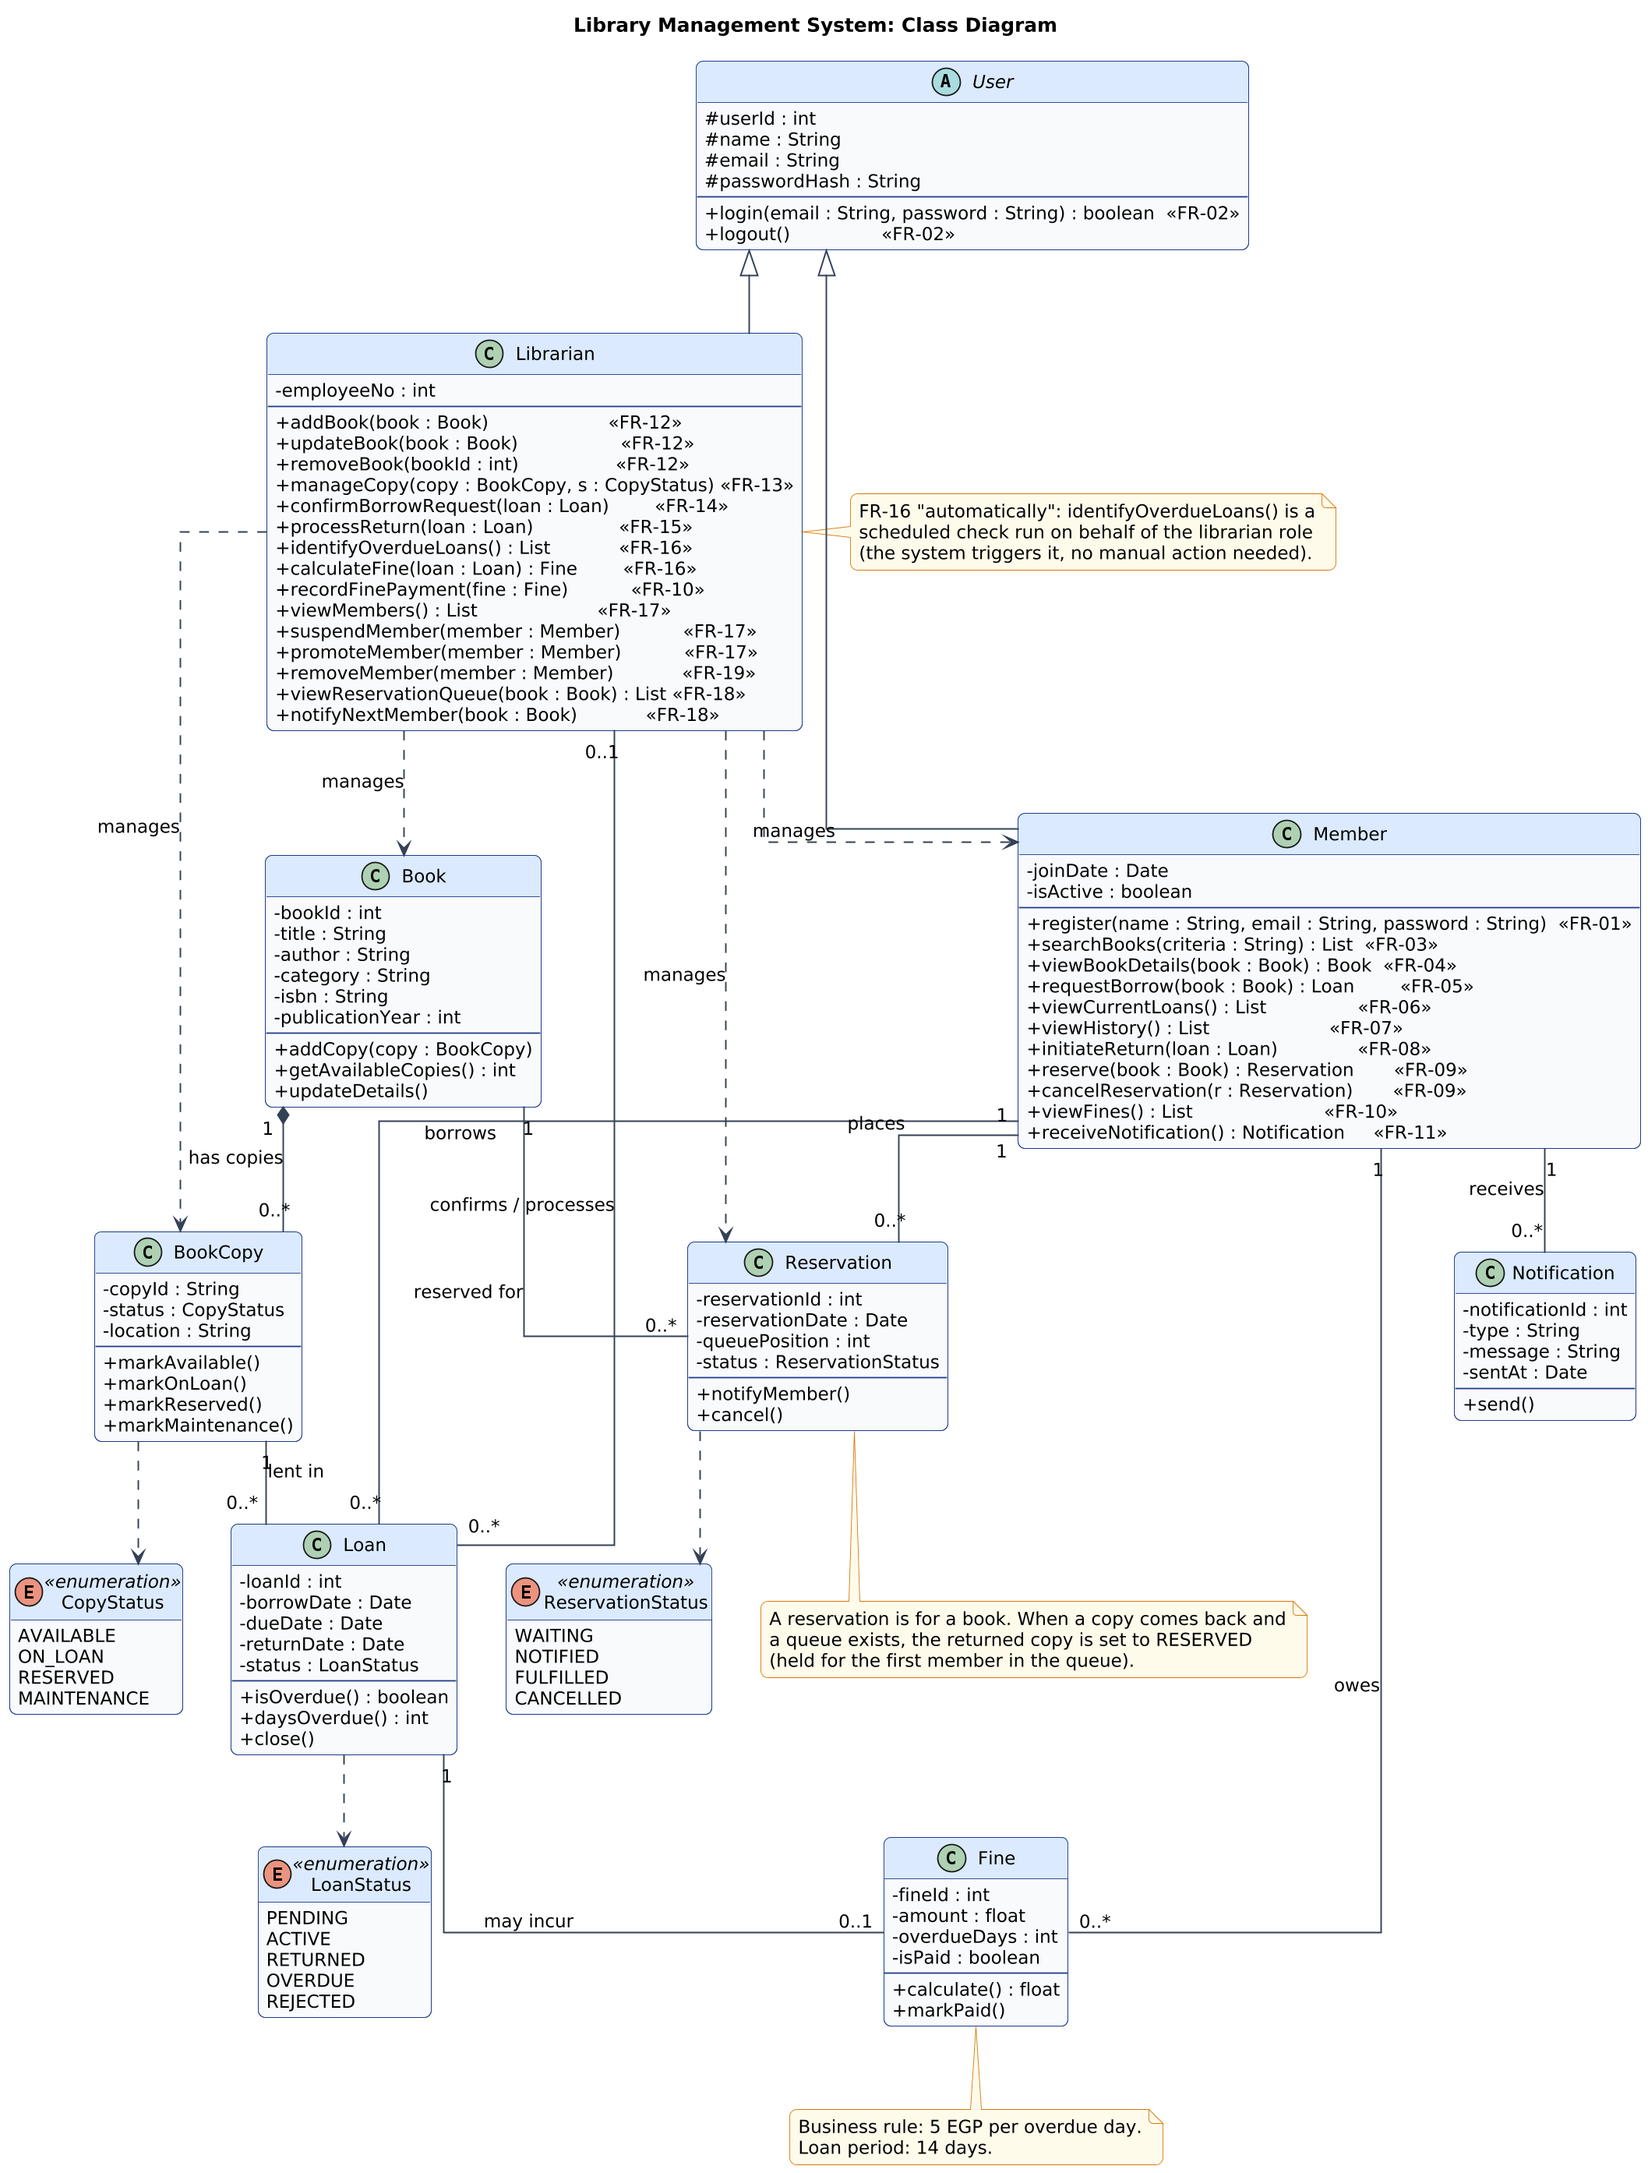
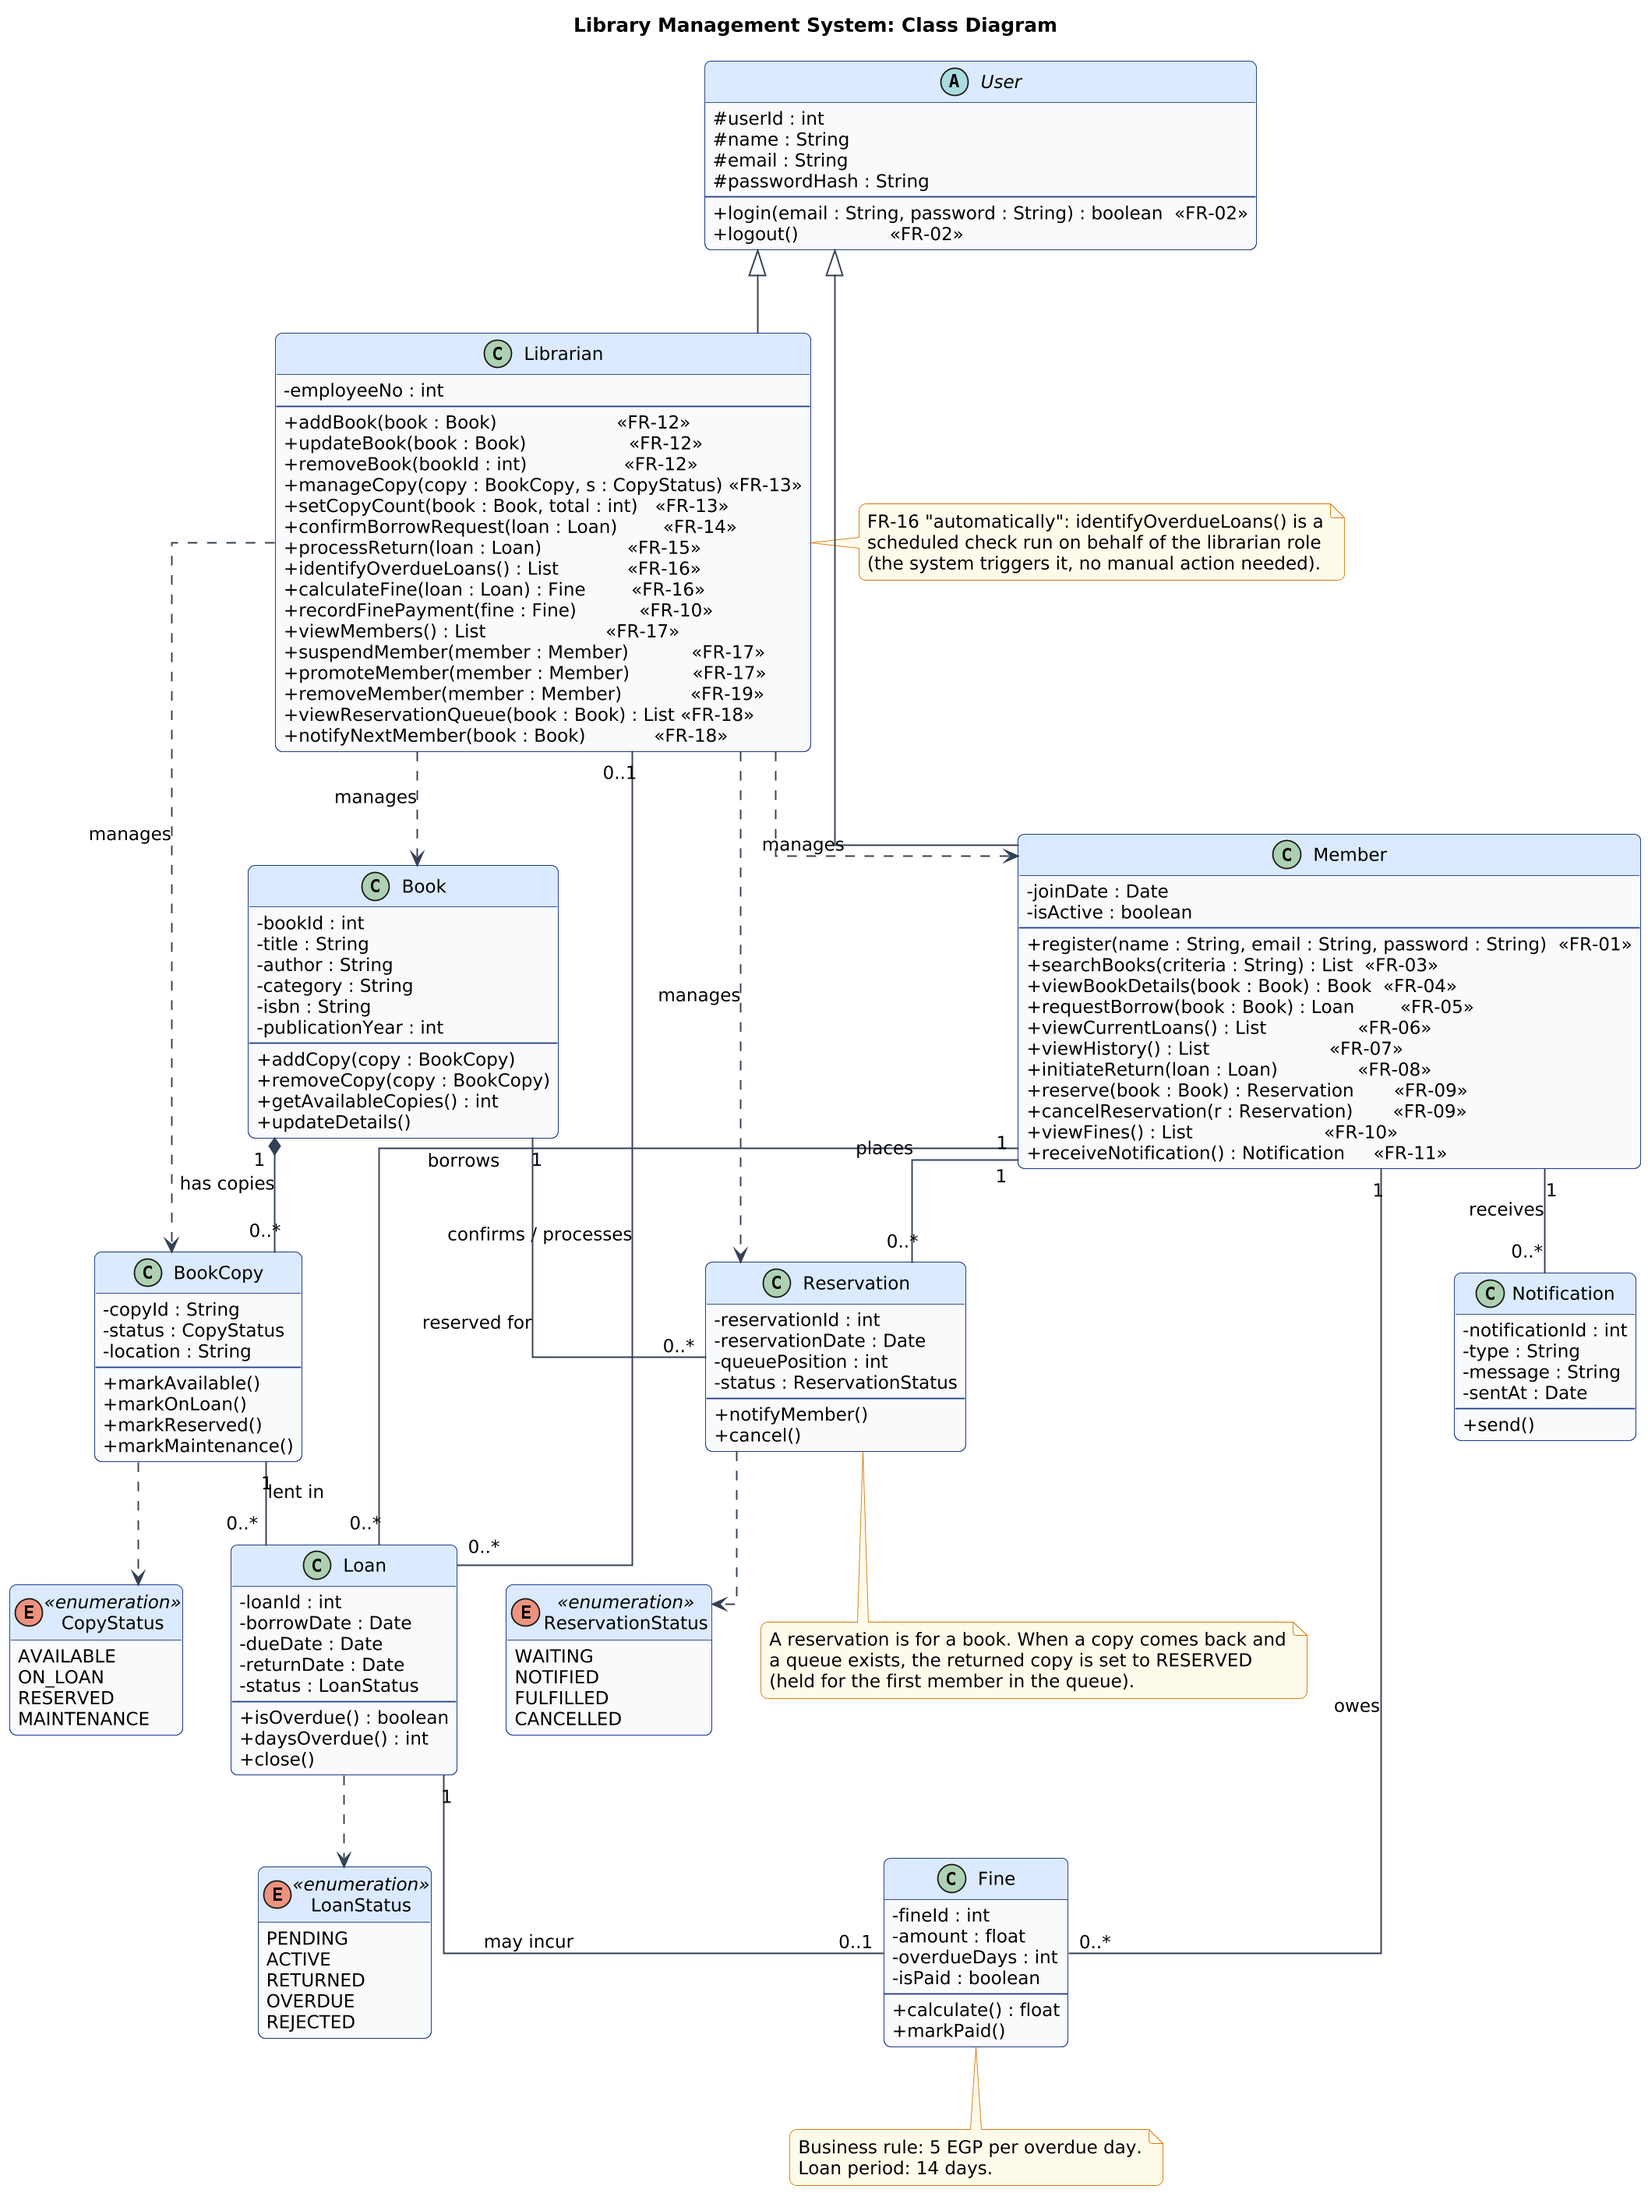
Spec: ISBN in FR-03/UC3, copy add/remove in FR-13/UC13, class removeCopy and setCopyCount

diff --git a/requirements/functional-requirements.md b/requirements/functional-requirements.md
@@ -13,7 +13,7 @@ their availability before requesting to borrow them.
 | --- | --- | --- | --- |
 | FR-01 | Member | The system shall allow a visitor to register as a library member with name, email and password. | Person 1 |
 | FR-02 | Member | The system shall allow a member or librarian to log in with email and password (checked against the stored accounts, a wrong password is rejected) and to log out. | Person 1 |
-| FR-03 | Member | The system shall allow a member to search for books by title, author or category. | Person 2 |
+| FR-03 | Member | The system shall allow a member to search for books by title, author, category or ISBN. | Person 2 |
 | FR-04 | Member | The system shall display book details (title, author, category, ISBN, publication year) together with real-time availability of its copies. | Person 2 |
 | FR-05 | Member | The system shall allow a member to submit a borrow request for an available book. | Person 3 |
 | FR-06 | Member | The system shall show the member their current loans with borrowing date and due date for each loan. | Person 4 |
@@ -23,7 +23,7 @@ their availability before requesting to borrow them.
 | FR-10 | Member | The system shall display the member's outstanding fines with the amount and the loan that caused each fine, and shall allow a librarian to record the payment of a fine. | Person 4 |
 | FR-11 | Member | The system shall notify a member when a loan is approaching its due date or becomes overdue. | Person 6 |
 | FR-12 | Librarian | The system shall allow a librarian to add, update and remove books from the catalog. | Person 7 |
-| FR-13 | Librarian | The system shall allow a librarian to manage individual book copies and their status (available, on loan, reserved, under maintenance). | Person 7 |
+| FR-13 | Librarian | The system shall allow a librarian to manage individual book copies (add or remove available copies) and their status (available, on loan, reserved, under maintenance). | Person 7 |
 | FR-14 | Librarian | The system shall allow a librarian to review and confirm borrow requests, recording the borrowing date and due date. | Person 3 |
 | FR-15 | Librarian | The system shall allow a librarian to process returned books and update copy availability accordingly. | Person 5 |
 | FR-16 | Librarian | The system shall automatically identify overdue loans and calculate the fine for each based on the number of overdue days. | Person 5 |

diff --git a/README.md b/README.md
@@ -29,7 +29,7 @@ The diagrams, the 19 functional requirements and the front end were cross-checke
 Nine pages, static HTML/CSS/JS with mock data (no backend required, per the project brief). Demo actions that change state (borrow requests, reservations, loan confirmations, returns, fines and fine payments, catalog edits, suspension, login) persist in the browser via localStorage. The business logic is in `docs/js/logic.js` and has automated tests (below):
 
 - **Home** - overview, live stats, feature map to the requirements
-- **Book Catalog** - search by title/author/category with live availability (FR-03, FR-04)
+- **Book Catalog** - search by title/author/category/ISBN with live availability (FR-03, FR-04)
 - **Book Details** - copies and their status, borrow request and reservation actions that are stored (FR-05, FR-09)
 - **Member Dashboard** - current loans, due-date reminders, overdue notices, fines, reservations (FR-06, FR-10, FR-11)
 - **Borrowing History** - every loan with return dates and late fines (FR-07)
